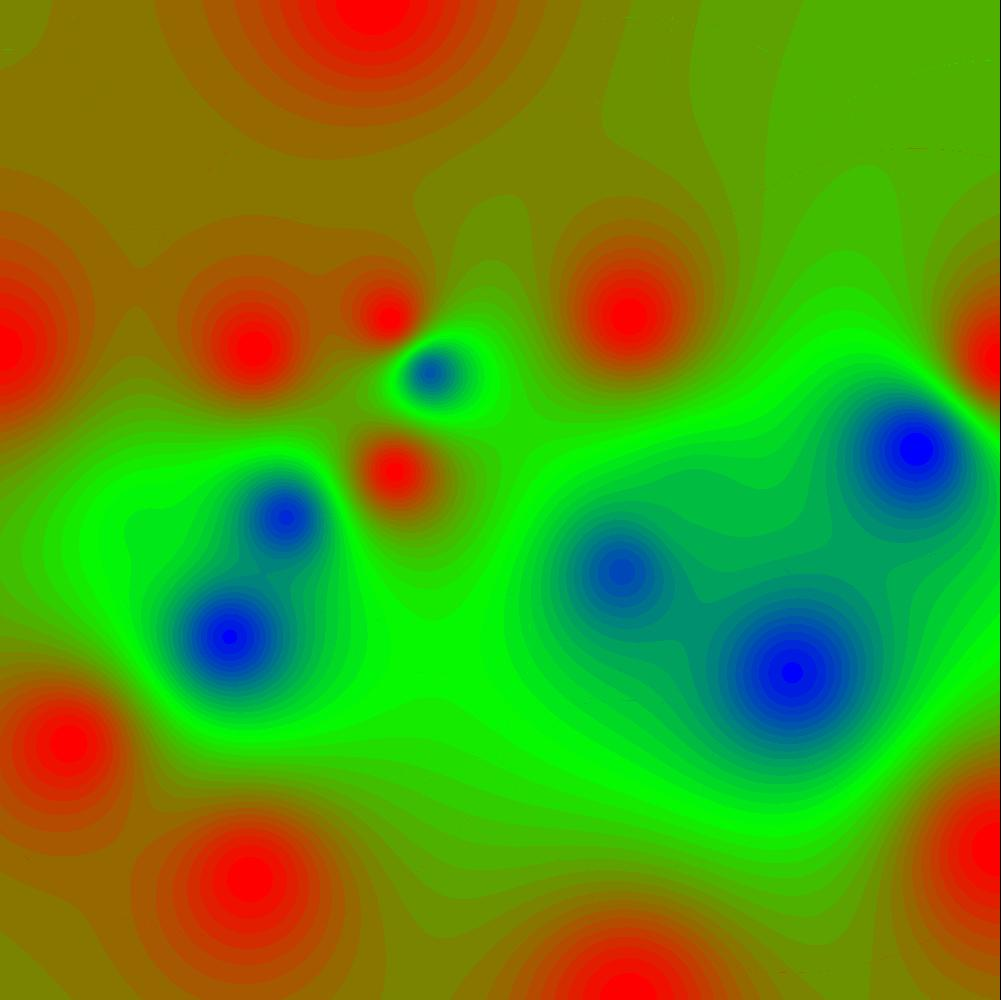
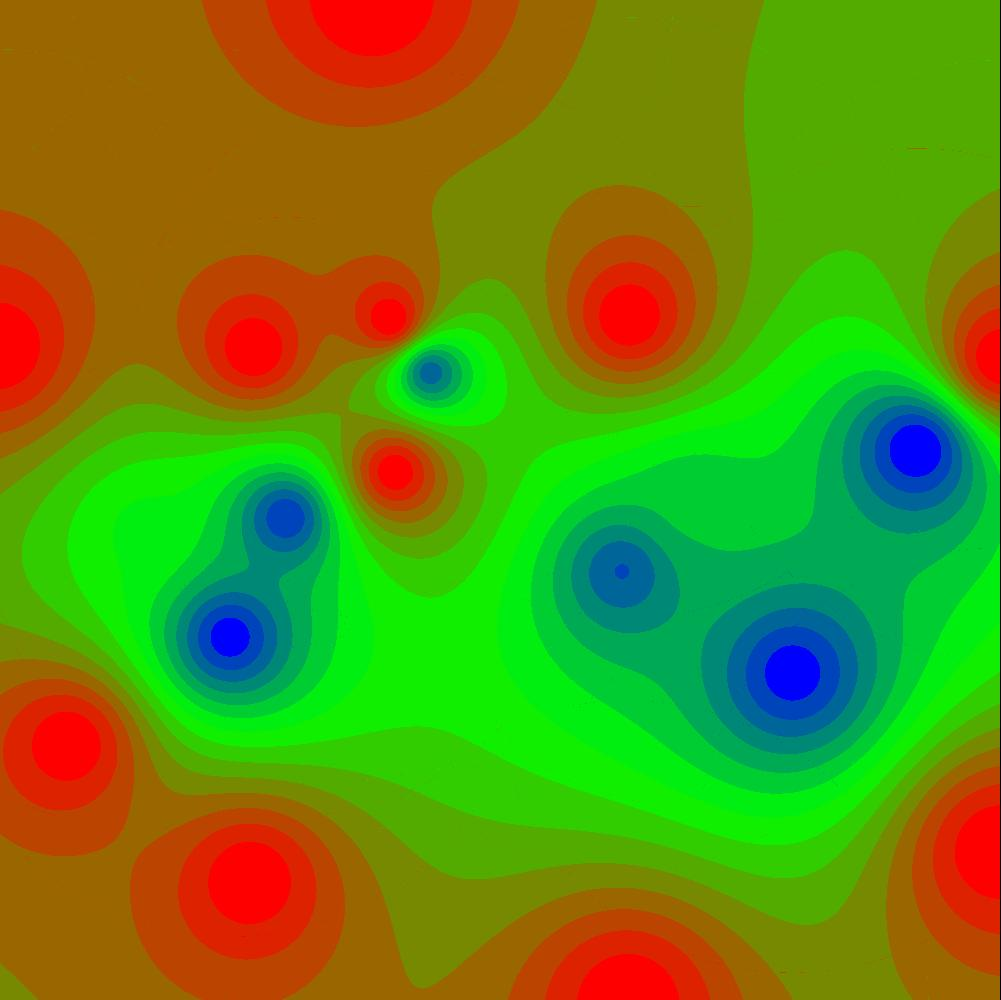
Käyttöliittymää aloitettu

diff --git a/triangle-interpolator/src/main/java/ui/UI.java b/triangle-interpolator/src/main/java/ui/UI.java
@@ -1,9 +1,99 @@
 package ui;
 
+import geometry.Triangle;
+import static interpolate.Interpolator.interpolateInverseDistance;
+import static interpolate.Interpolator.interpolateMatrix;
+import static interpolate.Interpolator.triangulate;
+import static io.Writer.writeToGrayscaleImage;
+import static io.Writer.writeTrianglesToImage;
+import java.io.File;
+import java.io.FilenameFilter;
+import java.util.Scanner;
+import utils.CsvParse;
+import utils.MyArrayList;
+import utils.MyHashSet;
+import utils.MyMath;
+
 public class UI {
 
+    private Scanner sc;
+    private String fileName;
+    private int width;
+    private int height;
+
+    public UI() {
+        sc = new Scanner(System.in);
+
+        fileName = "";
+        width = 0;
+        height = 0;
+    }
+
     public void start() {
-        
+        selectFile();
+        runInterpolation();
+    }
+
+    public void selectFile() {
+        System.out.println("Select file where to read points");
+
+        File currentFolder = new File(".");
+        File[] listOfFiles = currentFolder.listFiles(new FilenameFilter() {
+            @Override
+            public boolean accept(File file, String string) {
+                return string.toLowerCase().endsWith(".csv");
+            }
+        });
+
+        printFiles(listOfFiles);
+
+        int fileId = readNumber();
+        while (fileId >= listOfFiles.length) {
+            System.out.println("File number must be between 1-" + listOfFiles.length);
+            fileId = readNumber();
+        }
+
+        fileName = listOfFiles[fileId - 1].getName();
+        System.out.println(fileName);
+    }
+
+    private void printFiles(File[] files) {
+        for (int i = 0; i < files.length; i++) {
+            System.out.println("[" + (i + 1) + "] " + files[i].getName());
+        }
+    }
+
+    private int readNumber() {
+        int output;
+        while (true) {
+            try {
+                output = Integer.parseInt(sc.nextLine());
+                break;
+            } catch (Exception e) {
+                System.out.println("Please give a number");
+            }
+        }
+        return output;
+    }
+
+    private void runInterpolation() {
+        CsvParse parser = new CsvParse(fileName);
+        MyArrayList<geometry.Point> list = parser.parsePointsFromFile(";", "x", "y", "weight");
+        list = MyMath.moveCoordinatesToOrigin(list);
+        list = MyMath.scaleCoordinates(1000, 1000, list);
+
+        System.out.println("Generating Delaunay triangles");
+        MyHashSet<Triangle> t = triangulate(list);
+        double[][] barycentricInterpolation = interpolateMatrix(1000, 1000, list, 25);
+        double[][] idwInterpolation = interpolateInverseDistance(1000, 1000, list, 300, 2, 15);
+
+        System.out.println("Writing barycentric");
+        writeToGrayscaleImage(barycentricInterpolation, "barycentric_test.jpg");
+        System.out.println("Writing idw");
+
+        writeToGrayscaleImage(idwInterpolation, "idw_test.jpg");
+        writeTrianglesToImage(1000, 1000, t, "triangles.jpg");
+        System.out.println("writing triangles");
     }
 
 }

diff --git a/triangle-interpolator/src/main/java/main/Main.java b/triangle-interpolator/src/main/java/main/Main.java
@@ -18,26 +18,10 @@ import utils.MyMath;
 public class Main {
 
     public static void main(String[] args) {
-
-        CsvParse parser = new CsvParse("hki.csv");
-        MyArrayList<Point> list = parser.parsePointsFromFile(";", "x", "y", "weight");
-        list = MyMath.moveCoordinatesToOrigin(list);
-        list = MyMath.scaleCoordinates(1000, 1000, list);
-
-        System.out.println("Generating Delaunay triangles");
-        MyHashSet<Triangle> t = triangulate(list);
-        System.out.println(t);
-        double[][] barycentricInterpolation = interpolateMatrix(1000, 1000, list, 25);
-        double[][] idwInterpolation = interpolateInverseDistance(1000, 1000, list, 300, 2, 35);
-
-        System.out.println("Writing barycentric");
-        writeToGrayscaleImage(barycentricInterpolation, "barycentric_test.jpg");
-        System.out.println("Writing idw");
-
-        writeToGrayscaleImage(idwInterpolation, "idw_test.jpg");
-        writeTrianglesToImage(1000, 1000, t, "triangles.jpg");
-        System.out.println("writing triangles");
-
+       
+         
+        UI ui = new UI();
+        ui.start();
 
     }
 

diff --git a/triangle-interpolator/src/main/java/ui/Point.java b/triangle-interpolator/src/main/java/ui/Point.java
@@ -1,0 +1,14 @@
+/*
+ * To change this license header, choose License Headers in Project Properties.
+ * To change this template file, choose Tools | Templates
+ * and open the template in the editor.
+ */
+package ui;
+
+/**
+ *
+ * @author lroni
+ */
+class Point {
+    
+}
